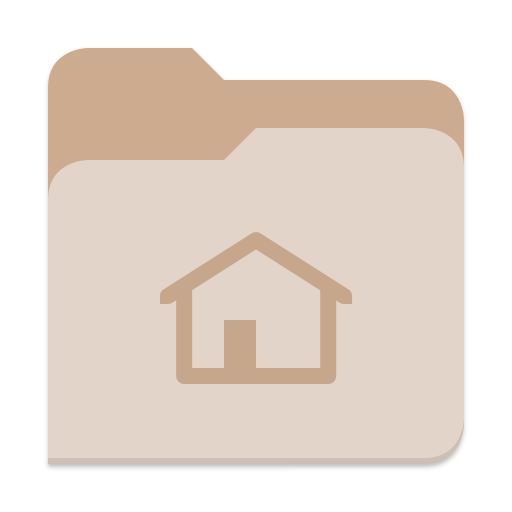
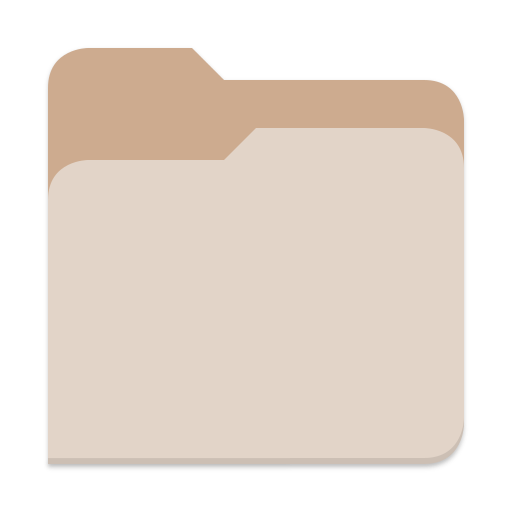
refactored IntroContainer

Changed region(s): [[0.3125, 0.4375, 0.6875, 0.75]]

diff --git a/src/App.tsx b/src/App.tsx
@@ -3,11 +3,16 @@ import styled, { ThemeProvider, createGlobalStyle } from 'styled-components'
 import { Prompt, UbuntuContainer, ProfileHeader } from './components'
 import { LIGHT_THEME, DARK_THEME } from './themes'
 import { GenericButton } from './components/Styles'
+import { Code } from './components/Icons'
 import { WindowLayer } from './components/UbuntuContainer/WindowLayer/WindowLayer'
 
-const PromptContainer = styled.div<{ introState: boolean }>`
-  margin-top: 10px;
+const IntroContainer = styled.div<{ introState: boolean }>`
+  text-align: center;
   animation: ${({ introState }) => (introState ? 'none' : `slide-out-elliptic-bottom-bck 1s ease-in both`)};
+  button {
+    opacity: ${({ introState }) => (introState ? 1 : 0)};
+    transition: opacity 0.3s ease-out;
+  }
 
   @keyframes slide-out-elliptic-bottom-bck {
     0% {
@@ -23,22 +28,23 @@ const PromptContainer = styled.div<{ introState: boolean }>`
   }
 `
 
-const IntroContainer = styled.div<{ introState: boolean }>`
-  text-align: center;
-  button {
-    opacity: ${({ introState }) => (introState ? 1 : 0)};
-    transition: opacity 0.3s ease-out;
-  }
-`
-
 const FolderBlock = styled.div`
   display: flex;
   flex-direction: column;
   align-items: center;
   font-family: 'Ubuntu mono';
   font-size: 16px;
-  img {
-    width: 60px;
+  .folder {
+    position: relative;
+    img {
+      width: 60px;
+    }
+    svg {
+      position: absolute;
+      top: 23px;
+      left: 17px;
+      color: #b85c01;
+    }
   }
 `
 
@@ -92,16 +98,17 @@ const App: React.FC = () => {
       <GlobalStyle introState={introState} />
       <UbuntuContainer switchOpenFileState={setOpenFile}>
         <>
-          <PromptContainer introState={introState}>
-            <IntroContainer introState={introState}>
-              <FolderBlock>
-                <img src={`${PUBLIC_URI}/images/ubuntu-folder.png`} alt="Ubuntu folder" />
-                <span>Pablo Avilés</span>
-              </FolderBlock>
-              <Prompt switchIntroState={switchIntroState} />
-              <GenericButton onClick={switchIntroState}>Skip introduction</GenericButton>
-            </IntroContainer>
-          </PromptContainer>
+          <FolderBlock>
+            <div className="folder">
+              <img src={`${PUBLIC_URI}/images/ubuntu-folder.png`} alt="Ubuntu folder" />
+              <Code width={25} height={25} />
+            </div>
+            <span>Pablo Avilés</span>
+          </FolderBlock>
+          <IntroContainer introState={introState}>
+            <Prompt switchIntroState={switchIntroState} />
+            <GenericButton onClick={switchIntroState}>Skip introduction</GenericButton>
+          </IntroContainer>
           <WindowLayer isOpen={openFile === 'profileInfo'} switchOpenFileState={setOpenFile}>
             <ProfileHeader introState={introState} />
           </WindowLayer>

diff --git a/src/components/Icons/Code.tsx b/src/components/Icons/Code.tsx
@@ -1,0 +1,18 @@
+import { SVGProps } from 'react'
+
+export const Code: React.FC<SVGProps<SVGSVGElement>> = (props: SVGProps<SVGSVGElement>) => (
+  <svg
+    xmlns="http://www.w3.org/2000/svg"
+    className="icon icon-tabler icon-tabler-code"
+    viewBox="0 0 24 24"
+    strokeWidth={1.5}
+    stroke="currentColor"
+    fill="none"
+    strokeLinecap="round"
+    strokeLinejoin="round"
+    {...props}
+  >
+    <path d="M0 0h24v24H0z" stroke="none" />
+    <path d="m7 8-4 4 4 4M17 8l4 4-4 4M14 4l-4 16" />
+  </svg>
+)

diff --git a/src/components/Prompt/Prompt.tsx b/src/components/Prompt/Prompt.tsx
@@ -22,6 +22,7 @@ const PromptContainer = styled.div<{ containerPromptWidth: number }>`
       margin-bottom: 10px;
     }
     .Terminal {
+      text-align: left;
       margin: 0 auto;
       width: ${({ containerPromptWidth }) => `${containerPromptWidth}px`};
       height: 360px;

diff --git a/src/components/Icons/index.ts b/src/components/Icons/index.ts
@@ -1,1 +1,2 @@
 export { Hamburger } from './Hamburger'
+export { Code } from './Code'
